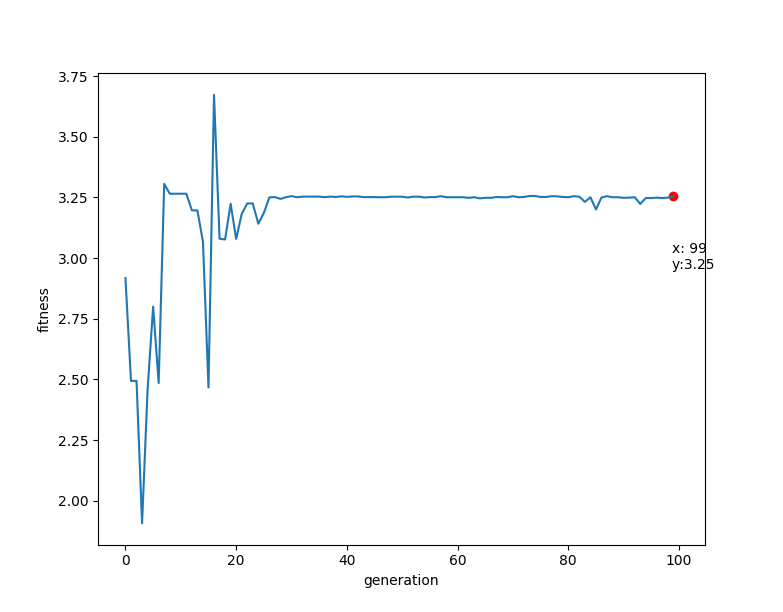
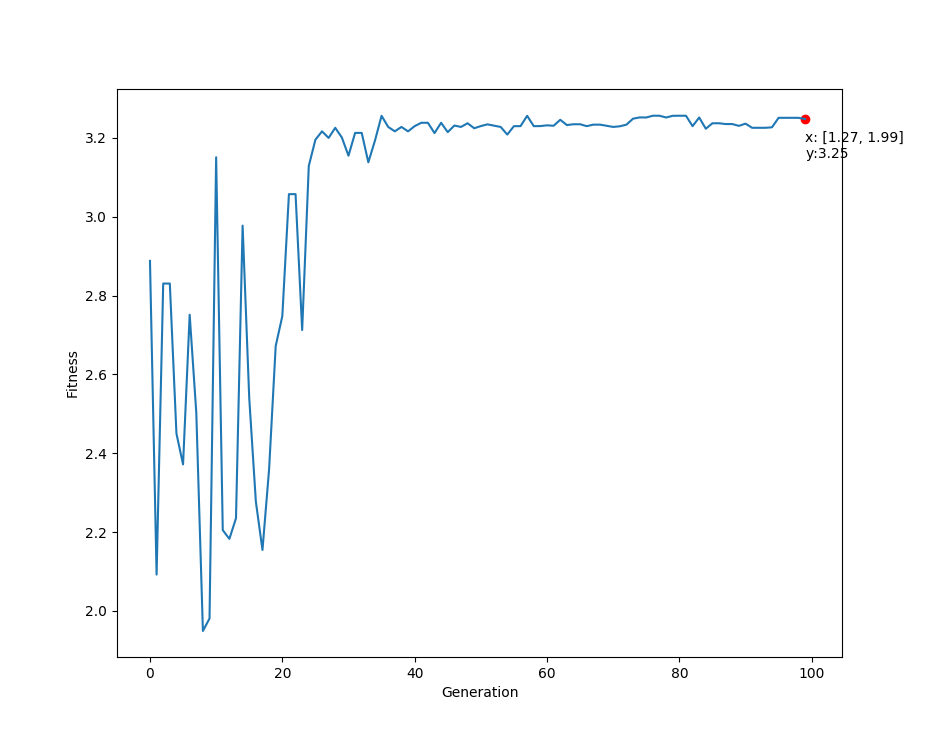
Add surface plot.

diff --git a/examples/ex02/best_fit.py b/examples/ex02/best_fit.py
@@ -1,103 +1,103 @@
 best_fit = [
-    (0, 2.917815014501514),
-    (1, 2.4939885933051387),
-    (2, 2.4939885933051387),
-    (3, 1.9071935168862897),
-    (4, 2.4589149522150673),
-    (5, 2.7999832471449793),
-    (6, 2.4851793062793868),
-    (7, 3.306179168429373),
-    (8, 3.2655031787874735),
-    (9, 3.2655031787874735),
-    (10, 3.2655031787874735),
-    (11, 3.2655031787874735),
-    (12, 3.1967325370345963),
-    (13, 3.1967325370345963),
-    (14, 3.067619765249354),
-    (15, 2.466927301599995),
-    (16, 3.6729485420773607),
-    (17, 3.079732654773241),
-    (18, 3.077020707415878),
-    (19, 3.2240741947027707),
-    (20, 3.078979104219753),
-    (21, 3.1819743560087845),
-    (22, 3.225323275479062),
-    (23, 3.225323275479062),
-    (24, 3.141868240080543),
-    (25, 3.186317672484879),
-    (26, 3.250414950675526),
-    (27, 3.2516327171333215),
-    (28, 3.2440625225792035),
-    (29, 3.2512574881563556),
-    (30, 3.255524828557336),
-    (31, 3.2509762510339844),
-    (32, 3.253486663767662),
-    (33, 3.253486663767662),
-    (34, 3.253486663767662),
-    (35, 3.253486663767662),
-    (36, 3.2512574881563556),
-    (37, 3.253486663767662),
-    (38, 3.2520851228105894),
-    (39, 3.254677405827374),
-    (40, 3.252641830933524),
-    (41, 3.2542231136694024),
-    (42, 3.2542231136694024),
-    (43, 3.251497988868012),
-    (44, 3.251497988868012),
-    (45, 3.251497988868012),
-    (46, 3.250998489782903),
-    (47, 3.250998489782903),
-    (48, 3.253212504073086),
-    (49, 3.253212504073086),
-    (50, 3.253212504073086),
-    (51, 3.2500556045403917),
-    (52, 3.253212504073086),
-    (53, 3.253212504073086),
-    (54, 3.2500556045403917),
-    (55, 3.251497988868012),
-    (56, 3.251497988868012),
-    (57, 3.255259219003136),
-    (58, 3.2509762510339844),
-    (59, 3.2509762510339844),
-    (60, 3.2509762510339844),
-    (61, 3.2509762510339844),
-    (62, 3.248550502744364),
-    (63, 3.2509762510339844),
-    (64, 3.2463355315525977),
-    (65, 3.248550502744364),
-    (66, 3.248550502744364),
-    (67, 3.2518008873524202),
-    (68, 3.2509762510339844),
-    (69, 3.2509762510339844),
-    (70, 3.255259219003136),
-    (71, 3.2509762510339844),
-    (72, 3.2519888104809116),
-    (73, 3.2560725273181763),
-    (74, 3.2560725273181763),
-    (75, 3.2520851228105894),
-    (76, 3.2520851228105894),
-    (77, 3.255259219003136),
-    (78, 3.254677405827374),
-    (79, 3.2520851228105894),
-    (80, 3.2509762510339844),
-    (81, 3.255259219003136),
-    (82, 3.253212504073086),
-    (83, 3.2316483861510608),
-    (84, 3.2509762510339844),
-    (85, 3.2006155641101666),
-    (86, 3.2500192166649784),
-    (87, 3.255259219003136),
-    (88, 3.2509762510339844),
-    (89, 3.2509762510339844),
-    (90, 3.248550502744364),
-    (91, 3.249379036075811),
-    (92, 3.2509762510339844),
-    (93, 3.223396375006736),
-    (94, 3.2475932291933622),
-    (95, 3.2475932291933622),
-    (96, 3.249379036075811),
-    (97, 3.2475932291933622),
-    (98, 3.249379036075811),
-    (99, 3.2540320654748562),
+    (0, [1.3571079628724965, 1.9765510503175379], 2.8880049814556337),
+    (1, [1.267220322423058, 1.1069858329262336], 2.0920442421841696),
+    (2, [-1.8319491939423547, 1.6072300928187593], 2.8304875250776576),
+    (3, [-1.8319491939423547, 1.6072300928187593], 2.8304875250776576),
+    (4, [-1.769418661455789, 1.3571079628724965], 2.449930221671602),
+    (5, [0.7318026380068394, -1.8729848558866635], 2.3716248241926037),
+    (6, [1.6775769418661453, -1.8612603810454322], 2.751389293129469),
+    (7, [1.1773326819736196, 1.8729848558866635], 2.5030176150098935),
+    (8, [1.1519296531509524, 0.9838788470933073], 1.948952912227818),
+    (9, [1.1695163654127994, 1.0757205666829508], 1.9807141733864944),
+    (10, [1.857352222765022, -1.923790913531998], 3.150960509271224),
+    (11, [1.4352711284807036, 1.978505129457743], 2.204865926057158),
+    (12, [1.2906692721055202, 1.0776746458231559], 2.1826670080153043),
+    (13, [1.9335613092330237, -1.058133854421104], 2.2349987841271264),
+    (14, [1.740107474352711, -1.8612603810454322], 2.977435344933072),
+    (15, [-1.8866634098680997, 1.4137762579384465], 2.5403105574414617),
+    (16, [1.4196384953590622, 1.945285784074255], 2.2775900340149544),
+    (17, [0.3097215437225209, 1.9843673668783586], 2.1545220534227507),
+    (18, [1.8085002442598923, -1.1206643869076698], 2.3589690443737146),
+    (19, [1.1636541279921837, 1.9218368343917929], 2.671993620059732),
+    (20, [-1.902296042989741, 1.484123106985833], 2.747772413642834),
+    (21, [-1.714704445530044, 1.45285784074255], 3.057309330165104),
+    (22, [-1.714704445530044, 1.45285784074255], 3.057309330165104),
+    (23, [1.1695163654127994, 1.9218368343917929], 2.7125863553181144),
+    (24, [1.2887151929653151, 1.9531021006350757], 3.128770871474754),
+    (25, [1.2945774303859308, 1.9843673668783586], 3.19537624252241),
+    (26, [1.2945774303859308, 2.0], 3.2166395196365913),
+    (27, [1.2926233512457252, 1.9843673668783586], 3.200022801715262),
+    (28, [1.2887151929653151, 1.9960918417195894], 3.2256519241660886),
+    (29, [1.263312164142648, 1.9687347337567171], 3.2008663274280105),
+    (30, [1.265266243282853, 1.9531021006350757], 3.1548554130970263),
+    (31, [-1.7401074743527114, 1.484123106985833], 3.212713388211241),
+    (32, [-1.7401074743527114, 1.484123106985833], 3.212713388211241),
+    (33, [1.3180263800683925, 2.0], 3.1381009302190845),
+    (34, [1.2887151929653151, 1.9765510503175379], 3.193112943195528),
+    (35, [1.265266243282853, 2.0], 3.2560725273181763),
+    (36, [1.2887151929653151, 1.998045920859795], 3.22783985710569),
+    (37, [-1.7459697117733268, 1.4821690278456279], 3.2167173699409393),
+    (38, [1.2887151929653151, 1.998045920859795], 3.22783985710569),
+    (39, [1.2945774303859308, 2.0], 3.2166395196365913),
+    (40, [1.2887151929653151, 2.0], 3.229833539255984),
+    (41, [1.2828529555446995, 1.998045920859795], 3.2383850386148385),
+    (42, [1.2828529555446995, 1.998045920859795], 3.2383850386148385),
+    (43, [1.2867611138251096, 1.9843673668783586], 3.2122279190108154),
+    (44, [1.2828529555446995, 1.998045920859795], 3.2383850386148385),
+    (45, [1.2945774303859308, 1.998045920859795], 3.2146640143564067),
+    (46, [1.2535417684416217, 1.9843673668783586], 3.231375763762707),
+    (47, [1.2887151929653151, 1.998045920859795], 3.22783985710569),
+    (48, [1.2848070346849045, 2.0], 3.237168093633643),
+    (49, [1.2867611138251096, 1.9921836834391793], 3.224487341752046),
+    (50, [1.2574499267220323, 1.9824132877381535], 3.2300226103176692),
+    (51, [1.265266243282853, 1.9843673668783586], 3.234413203016784),
+    (52, [1.2613580850024424, 1.9824132877381535], 3.2310323467081763),
+    (53, [1.2535417684416217, 1.9824132877381535], 3.2278188846245426),
+    (54, [1.2887151929653151, 1.9843673668783586], 3.208449568244503),
+    (55, [1.2887151929653151, 2.0], 3.229833539255984),
+    (56, [1.2887151929653151, 2.0], 3.229833539255984),
+    (57, [1.265266243282853, 2.0], 3.2560725273181763),
+    (58, [1.2887151929653151, 2.0], 3.229833539255984),
+    (59, [1.2574499267220323, 1.9824132877381535], 3.2300226103176692),
+    (60, [1.2711284807034682, 1.9843673668783586], 3.231908790270385),
+    (61, [1.265266243282853, 1.9824132877381535], 3.230849827031369),
+    (62, [1.2574499267220323, 1.9921836834391793], 3.2459353306279333),
+    (63, [1.2554958475818268, 1.9843673668783586], 3.2326287736664536),
+    (64, [1.263312164142648, 1.9843673668783586], 3.234653010292283),
+    (65, [1.263312164142648, 1.9843673668783586], 3.234653010292283),
+    (66, [1.2887151929653151, 2.0], 3.229833539255984),
+    (67, [1.2867611138251096, 2.0], 3.233647556677581),
+    (68, [1.2867611138251096, 2.0], 3.233647556677581),
+    (69, [1.265266243282853, 1.9824132877381535], 3.230849827031369),
+    (70, [1.2887151929653151, 1.998045920859795], 3.22783985710569),
+    (71, [1.2867611138251096, 1.9960918417195894], 3.2294552593777492),
+    (72, [1.2574499267220323, 1.9843673668783586], 3.2335828314260024),
+    (73, [1.2535417684416217, 1.9960918417195894], 3.248761463817096),
+    (74, [1.2613580850024424, 1.9960918417195894], 3.2519888104809116),
+    (75, [1.265266243282853, 1.9960918417195894], 3.2518008873524202),
+    (76, [1.263312164142648, 2.0], 3.2563201249831524),
+    (77, [1.2613580850024424, 2.0], 3.256267289663809),
+    (78, [1.265266243282853, 1.9960918417195894], 3.2518008873524202),
+    (79, [1.265266243282853, 2.0], 3.2560725273181763),
+    (80, [1.2613580850024424, 2.0], 3.256267289663809),
+    (81, [1.2613580850024424, 2.0], 3.256267289663809),
+    (82, [1.2887151929653151, 2.0], 3.229833539255984),
+    (83, [1.265266243282853, 1.9960918417195894], 3.2518008873524202),
+    (84, [1.2887151929653151, 1.9941377625793844], 3.2232697843613476),
+    (85, [1.2848070346849045, 2.0], 3.237168093633643),
+    (86, [1.2848070346849045, 2.0], 3.237168093633643),
+    (87, [1.2848070346849045, 1.998045920859795], 3.235163721472925),
+    (88, [1.2848070346849045, 1.998045920859795], 3.235163721472925),
+    (89, [1.2848070346849045, 1.9941377625793844], 3.2305740358296253),
+    (90, [1.2828529555446995, 1.9960918417195894], 3.236182385206505),
+    (91, [1.2887151929653151, 1.9960918417195894], 3.2256519241660886),
+    (92, [1.2887151929653151, 1.9960918417195894], 3.2256519241660886),
+    (93, [1.2887151929653151, 1.9960918417195894], 3.2256519241660886),
+    (94, [1.2594040058622373, 1.980459208597948], 3.226926495966553),
+    (95, [1.2574499267220323, 1.9960918417195894], 3.2509762510339844),
+    (96, [1.2574499267220323, 1.9960918417195894], 3.2509762510339844),
+    (97, [1.2574499267220323, 1.9960918417195894], 3.2509762510339844),
+    (98, [1.2574499267220323, 1.9960918417195894], 3.2509762510339844),
+    (99, [1.269174401563263, 1.9941377625793844], 3.2479968083115267),
 ]
 

diff --git a/examples/ex02/plot_envolution_curve.py b/examples/ex02/plot_envolution_curve.py
@@ -1,0 +1,26 @@
+#!/usr/bin/env python
+# -*- coding: utf-8 -*-
+from math import sin, cos
+import numpy as np
+import matplotlib.pyplot as plt
+from best_fit import best_fit
+
+steps, variants, fits = list(zip(*best_fit))
+best_step, best_v, best_f = steps[-1], variants[-1], fits[-1]
+
+fig = plt.figure()
+
+ax = fig.add_subplot(111)
+ax.plot(steps, fits)
+ax.set_xlabel('Generation')
+ax.set_ylabel('Fitness')
+
+# Plot the maximum.
+ax.scatter([best_step], [best_f], facecolor='r')
+ax.annotate(s='x: [{:.2f}, {:.2f}]\ny:{:.2f}'.format(*best_v, best_f),
+                                                     xy=(best_step, best_f),
+                                                     xytext=(best_step, best_f-0.1))
+
+
+plt.show()
+

diff --git a/examples/ex02/plot_surf.py b/examples/ex02/plot_surf.py
@@ -1,0 +1,27 @@
+#!/usr/bin/env python
+# -*- coding: utf-8 -*-
+
+import numpy as np
+import mpl_toolkits.mplot3d
+import matplotlib.pyplot as plt
+
+from best_fit import best_fit
+
+for i, (x, y), z in best_fit:
+    fig = plt.figure(figsize=(12, 8))
+    ax = fig.add_subplot(111, projection='3d')
+
+    ax.scatter([x], [y], [z], zorder=99, c='r', s=100)
+
+    x, y = np.mgrid[-2:2:100j, -2:2:100j]
+    z = y*np.sin(2*np.pi*x) + x*np.cos(2*np.pi*y)
+    ax.plot_surface(x, y, z, rstride=2, cstride=1, cmap=plt.cm.bone_r)
+
+    ax.set_xlabel('X')
+    ax.set_ylabel('Y')
+    ax.set_zlabel('Z')
+
+    fig.savefig('{}.png'.format(i))
+    print('save {}.png'.format(i))
+    plt.close(fig)
+
